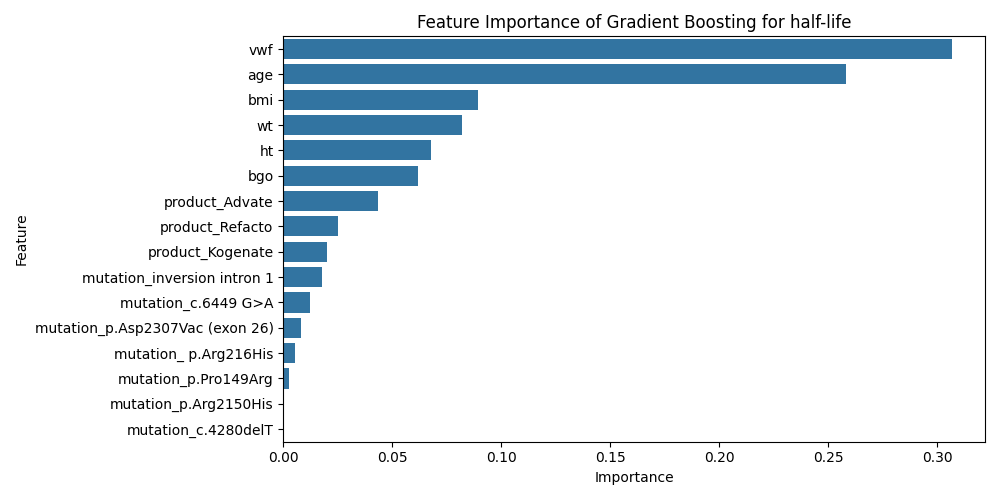
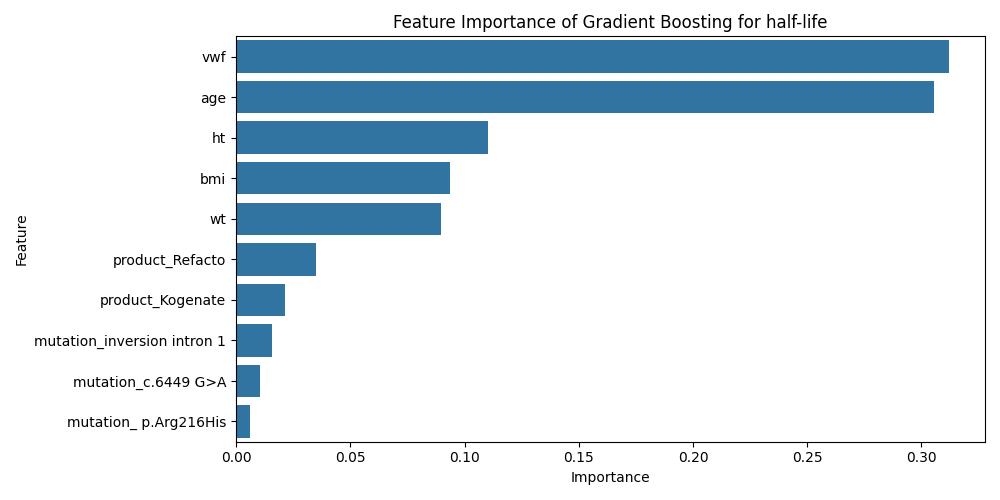
forgot to normalize my data and included feature selection

diff --git a/Scripts/MachineLearningClass.py b/Scripts/MachineLearningClass.py
@@ -45,6 +45,39 @@ class ImplementMachineLearning():
 
         return X_train, X_test, y_train, y_test
     
+    def feature_selection(self, X, y, n_features=10):
+        """
+        Perform feature selection using a Random Forest Regressor.
+        
+        Parameters:
+        - X: pd.DataFrame, feature matrix with each column being a feature.
+        - y: pd.Series or np.array, target variable (in this case, "half-life").
+        - n_features: int, number of top features to select.
+        
+        Returns:
+        - selected_features: List of the top n_features based on importance.
+        """
+
+        # Split the data into training and testing sets for feature evaluation
+        X_train, X_test, y_train, y_test = train_test_split(X, y, test_size=0.3, random_state=42)
+        
+        # Initialize the Random Forest Regressor
+        rf = RandomForestRegressor(n_estimators=100, random_state=42)
+        
+        # Fit the model
+        rf.fit(X_train, y_train)
+        
+        # Get feature importances
+        importances = rf.feature_importances_
+        
+        # Sort the feature importances in descending order and select the top n_features
+        indices = np.argsort(importances)[::-1]
+        selected_features = [X.columns[i] for i in indices[:n_features]]
+
+        return selected_features
+
+
+    
     def linear_regression(self, X_train, X_test, y_train, y_test):
         """
         This function fits a linear regression model to the data and returns the mean squared error and R^2 score.

diff --git a/Scripts/main.py b/Scripts/main.py
@@ -21,6 +21,8 @@ def process_data_for_modeling(df):
 
     process_data.drop_na()
 
+    process_data.normalize_data()
+
     return process_data.df
 
 def machine_learning_models(df):
@@ -30,6 +32,11 @@ def machine_learning_models(df):
     df_implement_machine_learning.find_correlated_features()
 
     X_train, X_test, y_train, y_test = df_implement_machine_learning.split_data()
+
+    top_10_features = df_implement_machine_learning.feature_selection(df.drop(columns='half_life'), df['half_life'])
+
+    X_train = X_train[top_10_features]
+    X_test = X_test[top_10_features]
 
     # Linear Regression
     linear_mse, linear_r2, linear_model_coefs = df_implement_machine_learning.linear_regression(X_train, X_test, y_train, y_test)

diff --git a/Scripts/ProcessDataClass.py b/Scripts/ProcessDataClass.py
@@ -126,3 +126,10 @@ class ProcessData():
         This function drops the rows with missing values.
         """
         self.df.dropna(inplace=True)
+
+    def normalize_data(self):
+        """
+        This function normalizes the data using the min-max scaling method. This is done to ensure that the data is in a format that can be used for machine learning model implementation.
+        """
+        self.df = (self.df - self.df.min()) / (self.df.max() - self.df.min())
+        self.df.fillna(0, inplace=True)
